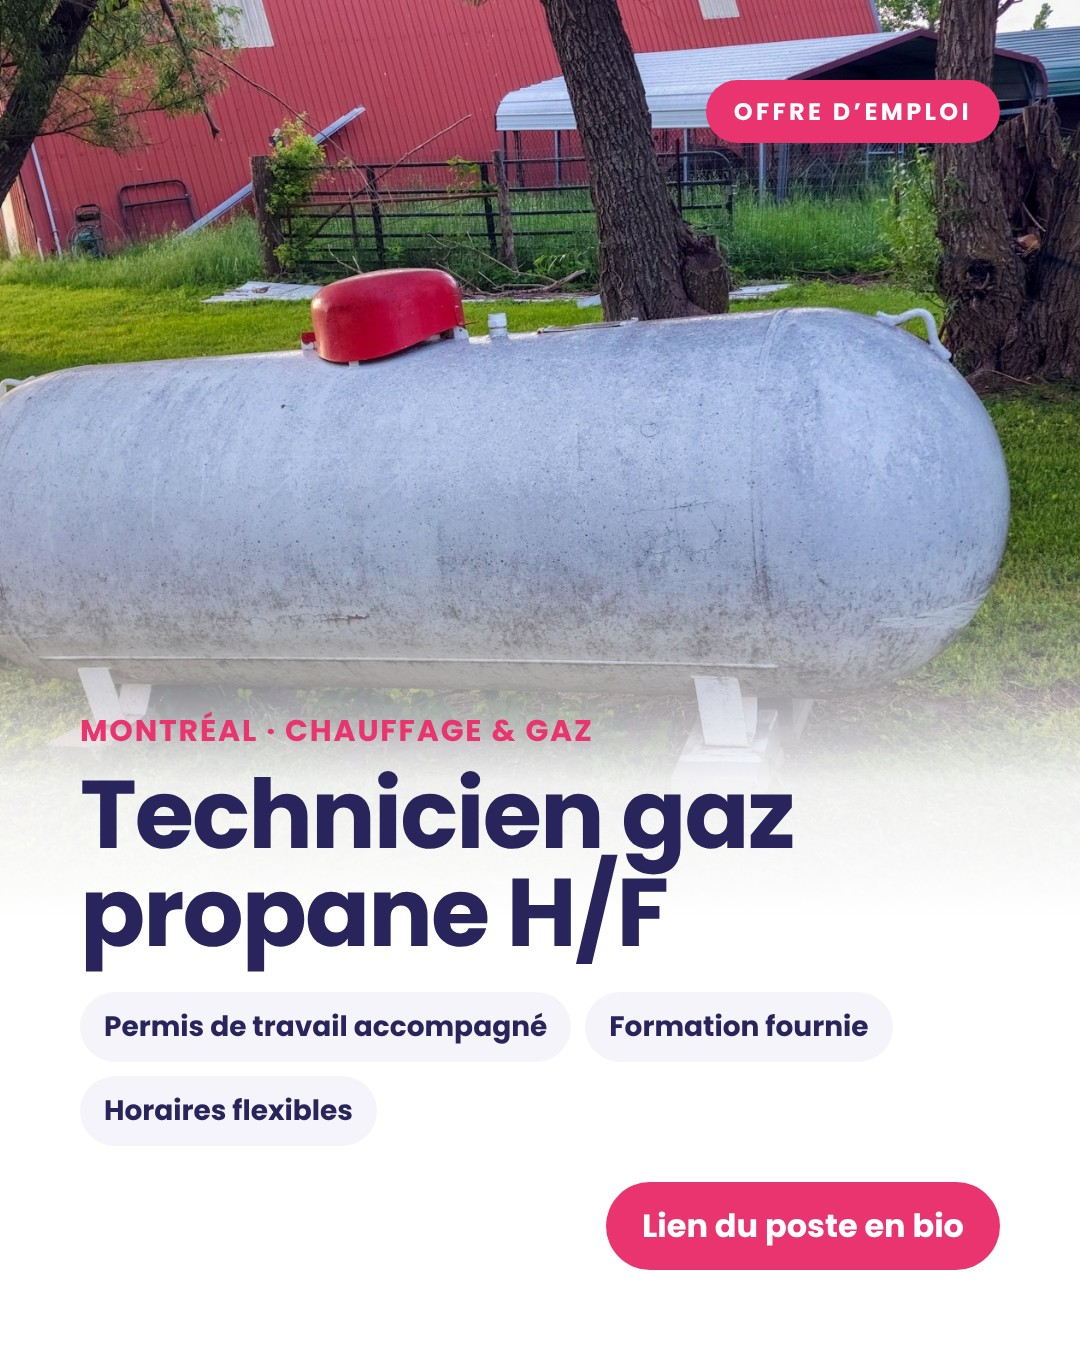
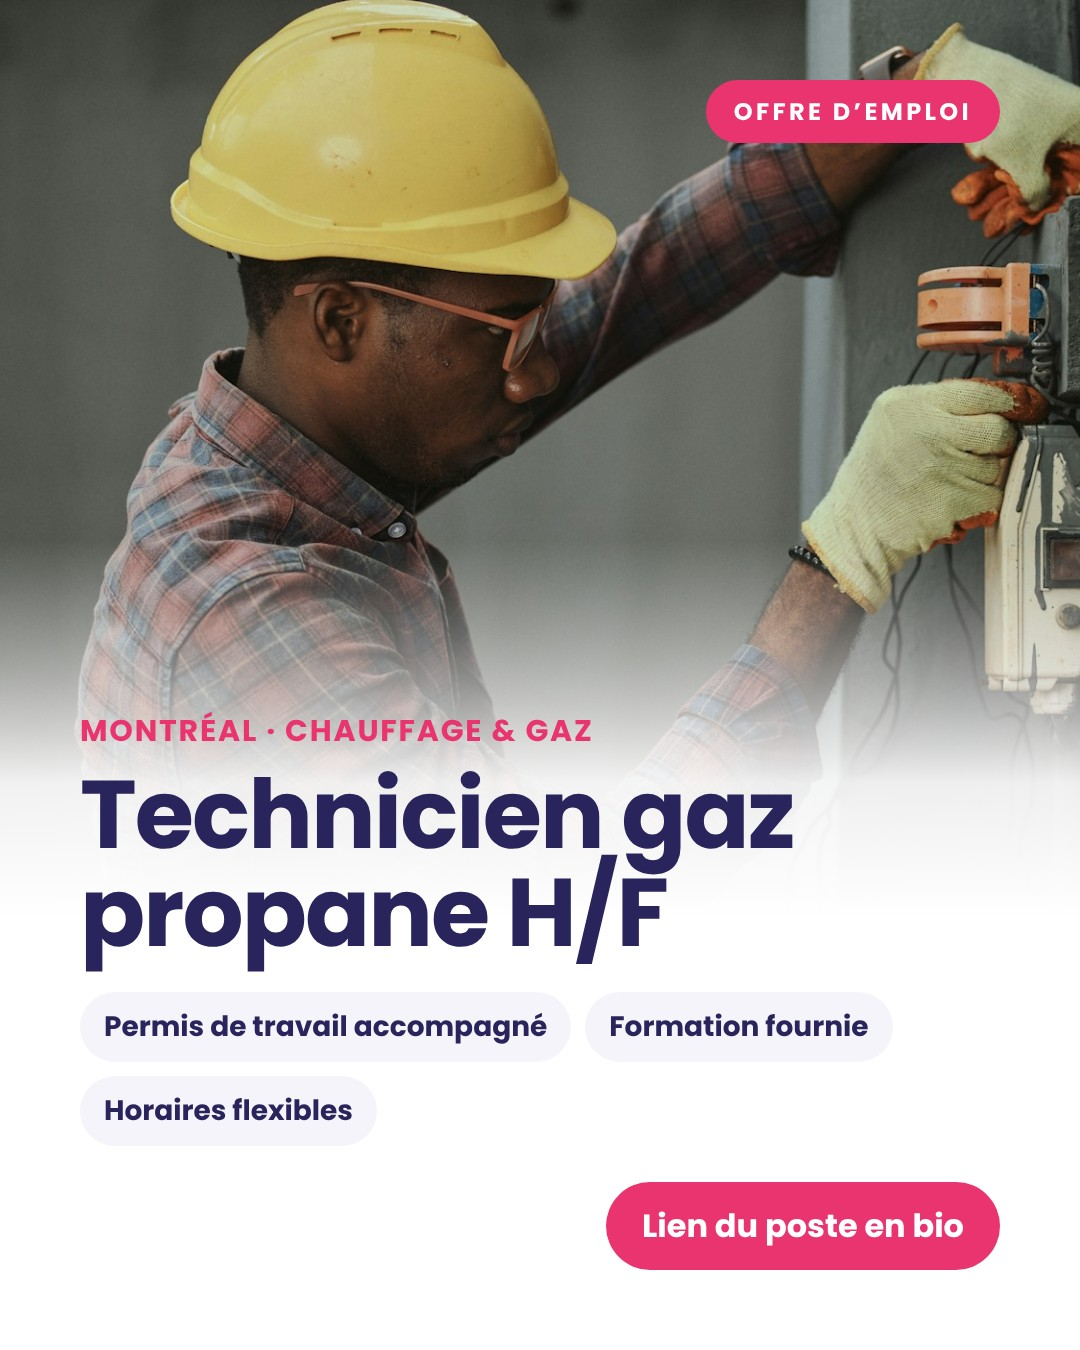
Offre novembre : photo d'un technicien en tenue de chantier (casque, gants)
Claude-Session: https://claude.ai/code/session_01D5ZaFZxPjWFMRUJVoiBqjb

diff --git a/liens/index.html b/liens/index.html
@@ -55,7 +55,7 @@ a{text-decoration:none}
 
   <!-- OFFRE-DU-MOMENT : bloc mis à jour à chaque offre publiée -->
   <a class="job" href="https://careers.marvins.ai/workin-group/jobs/1bedd210-525f-42b4-a5ec-7510dd700dbe" target="_blank" rel="noopener" data-track="liens_offre_du_moment">
-    <img src="/assets/social/src/reservoir-propane.jpg" alt="" width="86" height="86">
+    <img src="/assets/social/src/technicien-gaz.jpg" alt="" width="86" height="86">
     <div><small>Offre du moment</small><strong>Technicien gaz propane H/F</strong><span>Montréal · Chauffage &amp; gaz</span></div>
     <span class="arrow" aria-hidden="true">→</span>
   </a>
